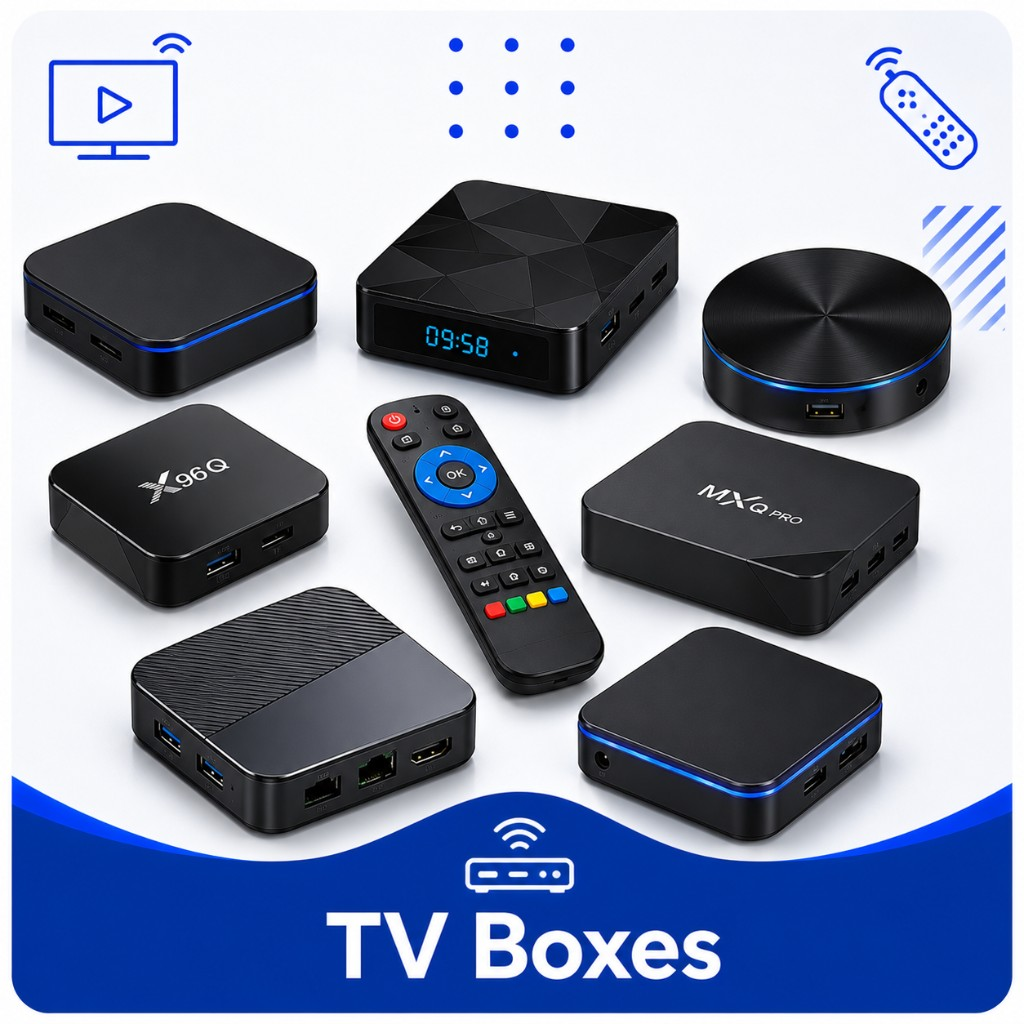
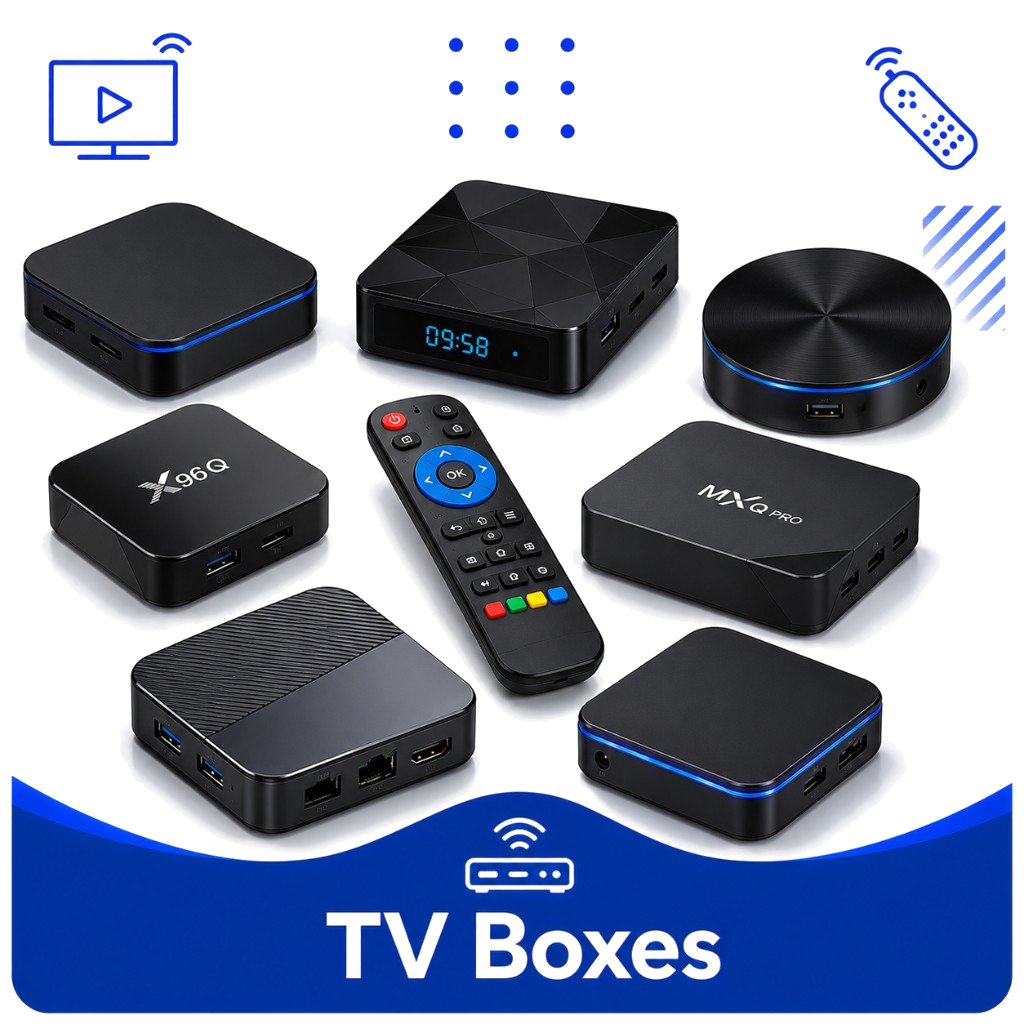
Trial transparent category images on the storefront rail.
Convert category artwork to PNG with alpha, keep solid backups, and render cards without opaque fills.

Changed region(s): [[0.3125, 0.3125, 0.3438, 0.3438]]

diff --git a/src/components/CategoryRail.jsx b/src/components/CategoryRail.jsx
@@ -69,7 +69,7 @@ const CategoryRail = () => {
                 </div>
             )}
 
-            {/* Image-only Template-2 cards — ~5.5 visible on phone */}
+            {/* Transparent category images — ~5.5 visible on phone */}
             <div
                 className="flex gap-2 overflow-x-auto pb-1.5 px-1 scrollbar-hide snap-x"
                 style={{ direction: 'rtl' }}
@@ -92,47 +92,30 @@ const CategoryRail = () => {
                                 ${isActive ? 'scale-[1.04]' : 'active:scale-[0.98]'}`}
                         >
                             <div
-                                className={`relative w-full aspect-[3/4] rounded-[14px] overflow-hidden
+                                className={`relative w-full aspect-square rounded-2xl overflow-hidden
                                     ${isActive
                                         ? 'ring-2 ring-primary shadow-md'
-                                        : darkMode
-                                            ? 'ring-1 ring-white/10'
-                                            : 'ring-1 ring-slate-200/70 shadow-sm'}`}
+                                        : ''}`}
                             >
                                 {thumb ? (
                                     <img
-                                        src={thumb}
+                                        src={`${thumb}?v=transparent`}
                                         alt=""
-                                        className="absolute inset-0 w-full h-full object-cover object-center bg-[#f4f7fb]"
+                                        className="absolute inset-0 w-full h-full object-contain object-center p-0.5 bg-transparent"
                                         loading="lazy"
                                     />
                                 ) : (
-                                    /* "All" — icon only, no text */
-                                    <div className={`absolute inset-0 flex flex-col ${darkMode ? 'bg-slate-800' : 'bg-[#f4f7fb]'}`}>
-                                        <div className="flex-1 flex items-center justify-center">
-                                            <span className="grid grid-cols-2 gap-1">
-                                                {[0, 1, 2, 3].map((i) => (
-                                                    <span
-                                                        key={i}
-                                                        className="w-3.5 h-3.5 rounded-[5px]"
-                                                        style={{ backgroundColor: BRAND_BLUE }}
-                                                    />
-                                                ))}
-                                            </span>
-                                        </div>
-                                        <div
-                                            className="relative h-[28%] shrink-0"
-                                            style={{ backgroundColor: BRAND_BLUE }}
-                                        >
-                                            <svg
-                                                className="absolute left-0 right-0 -top-[10px] w-full h-[11px] pointer-events-none"
-                                                viewBox="0 0 120 16"
-                                                preserveAspectRatio="none"
-                                                aria-hidden
-                                            >
-                                                <path d="M0 16 C30 2 90 2 120 16 L120 16 L0 16 Z" fill={BRAND_BLUE} />
-                                            </svg>
-                                        </div>
+                                    /* "All" — transparent-friendly icon tile */
+                                    <div className="absolute inset-0 flex items-center justify-center bg-transparent">
+                                        <span className="grid grid-cols-2 gap-1 p-2 rounded-xl bg-primary/10">
+                                            {[0, 1, 2, 3].map((i) => (
+                                                <span
+                                                    key={i}
+                                                    className="w-3.5 h-3.5 rounded-[5px]"
+                                                    style={{ backgroundColor: BRAND_BLUE }}
+                                                />
+                                            ))}
+                                        </span>
                                     </div>
                                 )}
                             </div>

diff --git a/src/pages/CategoriesPage.jsx b/src/pages/CategoriesPage.jsx
@@ -127,9 +127,9 @@ const CategoriesPage = () => {
                                     >
                                         {src ? (
                                             <img
-                                                src={src}
+                                                src={`${src}?v=transparent`}
                                                 alt={label}
-                                                className="absolute inset-0 w-full h-full object-cover transition-transform duration-300 group-hover:scale-[1.03]"
+                                                className="absolute inset-0 w-full h-full object-contain object-center p-1 bg-transparent transition-transform duration-300 group-hover:scale-[1.03]"
                                                 loading="lazy"
                                             />
                                         ) : (
